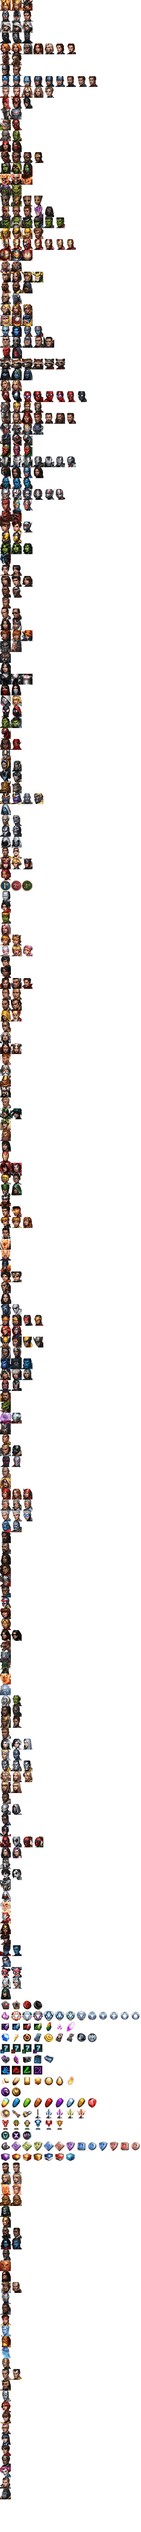
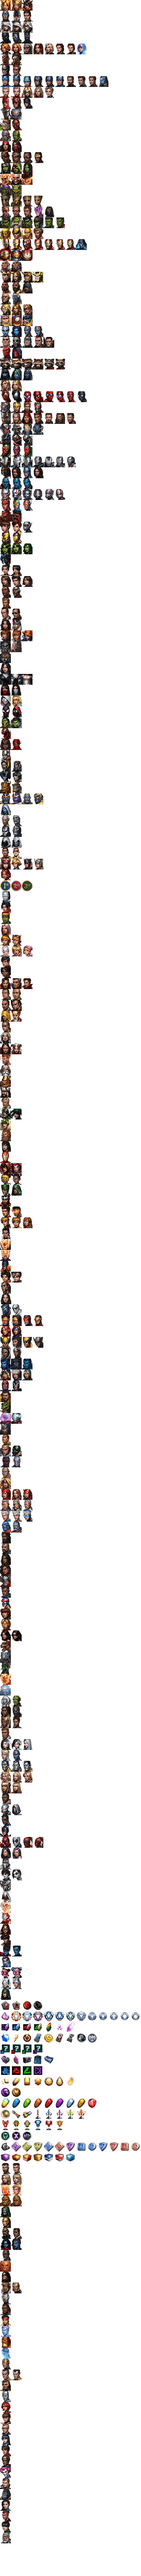
v570

diff --git a/j_flair.js b/j_flair.js
@@ -52,7 +52,6 @@ flair.names = {
 
 
 
-
 "AbsorbingMan00 character absorbingman" : "Absorbing Man [Modern] #Super Villain# #Villain# #Combat# #Male# #Human# #Strong#",
 "AdamWarlock00 character adam" : "Adam Warlock [Modern] #Super Hero# #Hero# #Blast# #Male# #Creature# #Time Freezing Immunity# #Magic#",
 "Aero00 character aero" : "Aero [Modern] #Super Hero# #Hero# #Speed# #Female# #Human# #Agents of Atlas# #Leadership# #Fast Movement# #Potential#",
@@ -75,8 +74,8 @@ flair.names = {
 "Antman03 uniform ant3" : "Ant-Man [Marvel's Ant-Man and the Wasp] #Super Hero# #Hero# #Speed# #Male# #Human# #MCU# #Agility# #Potential# #Tier3#",
 "Antman04 uniform ant4" : "Ant-Man [Marvel's Avengers: Endgame] #Super Hero# #Hero# #Speed# #Male# #Human# #MCU# #Avengers# #Agility# #Potential# #Tier3#",
 "Antman05 uniform ant5" : "Ant-Man [Team Suit] #Super Hero# #Hero# #Speed# #Male# #Human# #MCU# #Avengers# #Agility# #Potential# #Tier3#",
-"Apocalypse00 character apocalypse" : "Apocalypse [Age of Apocalypse] #Super Villain# #Villain# #Combat# #Male# #Mutant# #Durability# #Fast Movement# #Pure Evil# #Potential# #Tier3# #New#",
-"Apocalypse01 uniform apocalypse1" : "Apocalypse [Messiah Complex] #Super Villain# #Villain# #Combat# #Male# #Mutant# #Durability# #Fast Movement# #Pure Evil# #Potential# #Tier3# #New#",
+"Apocalypse00 character apocalypse" : "Apocalypse [Age of Apocalypse] #Super Villain# #Villain# #Combat# #Male# #Mutant# #Durability# #Fast Movement# #Pure Evil# #Potential# #Tier3#",
+"Apocalypse01 uniform apocalypse1" : "Apocalypse [Messiah Complex] #Super Villain# #Villain# #Combat# #Male# #Mutant# #Durability# #Fast Movement# #Pure Evil# #Potential# #Tier3#",
 "Arachknight00 character arachknight" : "Arachknight [Infinity Warps] #Super Hero# #Hero# #Speed# #Male# #Human# #Leadership# #Weapon Master# #Spider-Sense# #Potential#",
 "BaronMordo00 character mordo" : "Baron Mordo [Classic] #Super Villain# #Villain# #Blast# #Male# #Human# #Pure Evil# #Magic#",
 "BaronMordo01 uniform mordo1" : "Mordo [Marvel's Doctor Strange] #Super Villain# #Villain# #Speed# #Male# #Human# #MCU# #Heightened Senses# #Agility#",
@@ -102,14 +101,16 @@ flair.names = {
 "BlackWidow04 uniform widow4" : "Black Widow [Marvel's Avengers: Infinity War] #Super Hero# #Hero# #Speed# #Female# #Human# #MCU# #Avengers# #Agent# #Agility# #Potential#",
 "BlackWidow05 uniform widow5" : "Black Widow [Marvel's Avengers: Endgame] #Super Hero# #Hero# #Speed# #Female# #Human# #MCU# #Avengers# #Agent# #Agility# #Potential#",
 "BlackWidow06 uniform widow6" : "Black Widow [Team Suit] #Super Hero# #Hero# #Speed# #Female# #Human# #MCU# #Avengers# #Agent# #Agility# #Potential#",
+"BlackWidow07 uniform widow7" : "Black Widow [Avengers 3099] #Super Hero# #Hero# #Speed# #Female# #Human# #MCU# #Avengers# #Agent# #Agility# #Potential# #New#",
 "Blade00 character blade" : "Blade [Modern] #Super Hero# #Hero# #Combat# #Male# #Human# #Weapon Master# #Healing#",
 "Blade01 uniform blade1" : "Blade [70's Classic] #Super Hero# #Hero# #Combat# #Male# #Human# #Weapon Master# #Healing#",
+"BlueDragon00 character bluedragon" : "Blue Dragon [] #Super Hero# #Hero# #Blast# #Female# #Human# #Warriors of the Sky# #Leadership# #Electrokinetic# #Potential# #New#",
 "BlueMarvel00 character bluemarvel" : "Blue Marvel [Ultimates] #Super Hero# #Hero# #Universal# #Male# #Human# #Energy Projection# #Leadership#",
 "Bullseye00 character bullseye" : "Bullseye [Modern] #Super Villain# #Villain# #Combat# #Male# #Human# #Pure Evil# #Weapon Master#",
 "Bullseye01 uniform bullseye1" : "Bullseye [Secret Wars: 1872] #Super Villain# #Villain# #Combat# #Male# #Human# #Pure Evil# #Weapon Master#",
 "Cable00 character cable" : "Cable [Modern] #Super Hero# #Hero# #Blast# #Male# #Mutant# #Leadership# #Weapon Master# #Potential#",
 "Cable01 uniform cable1" : "Cable [X-Force] #Super Hero# #Hero# #Blast# #Male# #Mutant# #X-Force# #Leadership# #Weapon Master# #Potential#",
-"Cable02 uniform cable2" : "Cable [Cable & Deadpool] #Super Hero# #Hero# #Blast# #Male# #Mutant# #X-Force# #Leadership# #Weapon Master# #Potential# #New#",
+"Cable02 uniform cable2" : "Cable [Cable & Deadpool] #Super Hero# #Hero# #Blast# #Male# #Mutant# #X-Force# #Leadership# #Weapon Master# #Potential#",
 "CaptainAmerica00 character cap" : "Captain America [The Avengers] #Super Hero# #Hero# #Combat# #Male# #Human# #MCU# #Avengers# #Command# #Leadership# #Potential# #Tier3#",
 "CaptainAmerica01 uniform cap1" : "Captain America [Avengers: Age of Ultron] #Super Hero# #Hero# #Combat# #Male# #Human# #MCU# #Avengers# #Command# #Leadership# #Potential# #Tier3#",
 "CaptainAmerica02 uniform cap2" : "Captain America [Secret Wars: 2099] #Super Hero# #Hero# #Combat# #Female# #Human# #Command# #Leadership# #Potential# #Tier3#",
@@ -119,9 +120,11 @@ flair.names = {
 "CaptainAmerica06 uniform cap6" : "Captain America [Marvel's Avengers: Infinity War] #Super Hero# #Hero# #Combat# #Male# #Human# #MCU# #Avengers# #Command# #Leadership# #Potential# #Tier3#",
 "CaptainAmerica07 uniform cap7" : "Captain America [Marvel's Avengers: Endgame] #Super Hero# #Hero# #Combat# #Male# #Human# #MCU# #Avengers# #Command# #Leadership# #Potential# #Tier3#",
 "CaptainAmerica08 uniform cap8" : "Captain America [Team Suit] #Super Hero# #Hero# #Combat# #Male# #Human# #MCU# #Avengers# #Command# #Leadership# #Potential# #Tier3#",
+"CaptainAmerica09 uniform cap9" : "Captain America [Avengers 3099] #Super Hero# #Hero# #Combat# #Male# #Human# #MCU# #Avengers# #Command# #Leadership# #Potential# #Tier3# #New#",
 "CaptainAmericaSharonRogers00 character sharonrogers" : "Captain America (Sharon Rogers) [Captain America 75th Anniversary] #Super Hero# #Hero# #Blast# #Female# #Human# #Original# #Energy Projection# #Leadership# #Potential# #Tier3#",
 "CaptainAmericaSharonRogers01 uniform sharonrogers1" : "Captain America (Sharon Rogers) [Starlight Armor] #Super Hero# #Hero# #Blast# #Female# #Human# #Original# #Energy Projection# #Leadership# #Potential# #Tier3#",
 "CaptainAmericaSharonRogers02 uniform sharonrogers2" : "Captain America (Sharon Rogers) [Dark Star Armor] #Super Hero# #Hero# #Blast# #Female# #Human# #Original# #Energy Projection# #Leadership# #Potential# #Tier3#",
+"CaptainAmericaSharonRogers03 uniform sharonrogers3" : "Captain America (Sharon Rogers) [Star Night Armor] #Super Hero# #Hero# #Blast# #Female# #Human# #Original# #Energy Projection# #Leadership# #Potential# #Tier3# #New#",
 "CaptainMarvel00 character danvers" : "Captain Marvel [Modern] #Super Hero# #Hero# #Universal# #Female# #Human# #Energy Projection# #Fast Movement# #Leadership#",
 "CaptainMarvel01 uniform danvers1" : "Captain Marvel [Secret Wars: Captain Marvel & The Carol Corps] #Super Hero# #Hero# #Universal# #Female# #Human# #Energy Projection# #Fast Movement# #Leadership#",
 "CaptainMarvel02 uniform danvers2" : "Captain Marvel [Ms. Marvel] #Super Hero# #Hero# #Universal# #Female# #Human# #Energy Projection# #Fast Movement# #Leadership#",
@@ -153,8 +156,8 @@ flair.names = {
 "Daredevil02 uniform devil2" : "Daredevil [All-New, All-Different] #Super Hero# #Hero# #Speed# #Male# #Human# #Defenders# #Leadership# #Heightened Senses# #Agility#",
 "Deadpool00 character deadpool" : "Deadpool [Modern] #Super Hero# #Hero# #Speed# #Male# #Mutant# #Healing# #Weapon Master# #Potential# #Tier3#",
 "Deadpool01 uniform deadpool1" : "Deadpool [X-Force] #Super Hero# #Hero# #Speed# #Male# #Mutant# #X-Force# #Healing# #Weapon Master# #Potential# #Tier3#",
-"Deadpool02 uniform deadpool2" : "Deadpool [Lady Deadpool] #Super Hero# #Hero# #Speed# #Female# #Mutant# #X-Force# #Healing# #Weapon Master# #Potential# #Tier3# #New#",
-"Deadpool03 uniform deadpool3" : "Lady Deadpool [Holiday Party] #Super Hero# #Hero# #Speed# #Female# #Mutant# #X-Force# #Healing# #Weapon Master# #Potential# #Tier3# #New#",
+"Deadpool02 uniform deadpool2" : "Deadpool [Lady Deadpool] #Super Hero# #Hero# #Speed# #Female# #Mutant# #X-Force# #Healing# #Weapon Master# #Potential# #Tier3#",
+"Deadpool03 uniform deadpool3" : "Lady Deadpool [Holiday Party] #Super Hero# #Hero# #Speed# #Female# #Mutant# #X-Force# #Healing# #Weapon Master# #Potential# #Tier3#",
 "Deathlok00 character deathlok" : "Deathlok [Marvel's Agents of S.H.I.E.L.D.] #Super Hero# #Hero# #Combat# #Male# #Human# #MCU# #Shield# #Agent# #Machine#",
 "Deathlok01 uniform deathlok1" : "Deathlok [Modern] #Super Hero# #Hero# #Blast# #Male# #Human# #Shield# #Agent# #Machine#",
 "Destroyer00 character destroyer" : "Destroyer [Classic] #Neutral# #Universal# #Genderless# #Creature# #Asgard# #Flame#",
@@ -167,7 +170,7 @@ flair.names = {
 "DoctorStrange02 uniform strange2" : "Doctor Strange [Marvel's Avengers: Infinity War] #Super Hero# #Hero# #Blast# #Male# #Human# #MCU# #Avengers# #Fast Movement# #Magic# #Potential# #Tier3#",
 "DoctorVoodoo00 character voodoo" : "Doctor Voodoo [Modern] #Super Hero# #Hero# #Universal# #Male# #Human# #Magic# #Command# #Potential#",
 "Domino00 character domino" : "Domino [X-Force] #Super Hero# #Hero# #Speed# #Female# #Mutant# #X-Force# #Weapon Master# #Agility# #Potential#",
-"Domino01 uniform domino1" : "Domino [Marvel NOW!] #Super Hero# #Hero# #Speed# #Female# #Mutant# #X-Force# #-#  #Mercs For Money# #Weapon Master# #Agility# #Potential# #New#",
+"Domino01 uniform domino1" : "Domino [Marvel NOW!] #Super Hero# #Hero# #Speed# #Female# #Mutant# #X-Force# #-#  #Mercs For Money# #Weapon Master# #Agility# #Potential#",
 "Dormammu00 character dormammu" : "Dormammu [Classic] #Super Villain# #Villain# #Universal# #Male# #Alien# #Pure Evil# #Magic#",
 "Drax00 character drax" : "Drax [Guardians of the Galaxy] #Super Hero# #Hero# #Combat# #Male# #Alien# #MCU# #Guardians# #Healing# #Potential#",
 "Drax01 uniform drax1" : "Drax [All-New, All-Different] #Super Hero# #Hero# #Combat# #Male# #Alien# #Guardians# #Healing# #Potential#",
@@ -207,7 +210,7 @@ flair.names = {
 "GiantMan02 uniform giant2" : "Giant-Man [Ultron Pym] #Super Villain# #Villain# #Universal# #Male# #Human# #Strong# #Potential#",
 "Goliath00 character goliath" : "Goliath [Classic] #Super Hero# #Hero# #Combat# #Male# #Human# #Durability# #Strong#",
 "Gorgon00 character gorgon" : "Gorgon [War of Kings] #Super Hero# #Hero#  #Combat# #Male# #Inhuman# #Strong#",
-"GorillaMan00 character gorilla" : "Gorilla-Man [Modern] #Super Hero# #Hero#  #Combat# #Male# #Human# #Mercs For Money# #Strong# #Agility# #Weapon Master# #Potential# #New#",
+"GorillaMan00 character gorilla" : "Gorilla-Man [Modern] #Super Hero# #Hero#  #Combat# #Male# #Human# #Mercs For Money# #Strong# #Agility# #Weapon Master# #Potential#",
 "GreenGoblin00 character goblin" : "Green Goblin [Classic] #Super Villain# #Villain# #Speed# #Male# #Human# #Fast Movement# #Poison#",
 "GreenGoblin01 uniform goblin1" : "Green Goblin [Ultimate] #Super Villain# #Villain# #Combat# #Male# #Human# #Fast Movement# #Flame#",
 "Groot00 character groot" : "Groot [Guardians of the Galaxy] #Super Hero# #Hero# #Combat# #Male# #Alien# #MCU# #Guardians# #Healing# #Support# #Potential#",
@@ -264,6 +267,7 @@ flair.names = {
 "IronMan04 uniform im4" : "Iron Man [Marvel's Avengers: Infinity War] #Super Hero# #Hero# #Blast# #Male# #Human# #MCU# #Avengers# #Energy Projection# #Machine# #Potential# #Tier3#",
 "IronMan05 uniform im5" : "Iron Man [Marvel's Avengers: Endgame] #Super Hero# #Hero# #Blast# #Male# #Human# #MCU# #Avengers# #Energy Projection# #Machine# #Potential# #Tier3#",
 "IronMan06 uniform im6" : "Iron Man [Team Suit] #Super Hero# #Hero# #Blast# #Male# #Human# #MCU# #Avengers# #Energy Projection# #Machine# #Potential# #Tier3#",
+"IronMan07 uniform im7" : "Iron Man [Avengers 3099] #Super Hero# #Hero# #Blast# #Male# #Human# #MCU# #Avengers# #Energy Projection# #Machine# #Potential# #Tier3# #New#",
 "JeanGrey00 character jean" : "Jean Grey [Phoenix] #Super Hero# #Hero# #Blast# #Female# #Mutant# #X-Men# #Phoenix Force# #Mind# #Mind Resist# #Potential# #Tier3#",
 "JeanGrey01 uniform jean1" : "Jean Grey [X-Men Red] #Super Hero# #Hero# #Blast# #Female# #Mutant# #X-Men# #Phoenix Force# #Mind# #Mind Resist# #Potential# #Tier3#",
 "JessicaJones00 character jessica" : "Jessica Jones [Modern] #Super Hero# #Hero# #Combat# #Female# #Human# #MCU# #Defenders# #Durability# #Strong#",
@@ -336,7 +340,7 @@ flair.names = {
 "Nebula01 uniform nebula1" : "Nebula [Classic] #Super Villain# #Villain# #Combat# #Female# #Alien# #Weapon Master# #Shock# #Potential#",
 "Nebula02 uniform nebula2" : "Nebula [Marvel's Avengers: Endgame] #Super Hero# #Hero# #Combat# #Female# #Alien# #Avengers# #-# #Guardians# #Weapon Master# #Shock# #Potential#",
 "Nebula03 uniform nebula3" : "Nebula [Team Suit] #Super Hero# #Hero# #Combat# #Female# #Alien# #Avengers# #-# #Guardians# #Weapon Master# #Shock# #Potential#",
-"NegasonicTeenageWarhead00 character negasonic" : "Negasonic Teenage Warhead [Modern] #Super Hero# #Hero# #Blast# #Female# #Mutant# #Mercs For Money# #Agility# #Fast Movement# #Energy Projection# #Potential# #New#",
+"NegasonicTeenageWarhead00 character negasonic" : "Negasonic Teenage Warhead [Modern] #Super Hero# #Hero# #Blast# #Female# #Mutant# #Mercs For Money# #Agility# #Fast Movement# #Energy Projection# #Potential#",
 "NickFury00 character fury" : "Nick Fury [Modern] #Super Hero# #Hero# #Speed# #Male# #Human# #Shield# #Weapon Master# #Leadership# #Agent# #Support#",
 "NickFury01 uniform fury1" : "Nick Fury [Captain America] #Super Hero# #Hero# #Speed# #Male# #Human# #MCU# #Shield# #Weapon Master# #Leadership# #Agent# #Support# #Potential#",
 "Nightcrawler00 character nightcrawler" : "Nightcrawler [Modern] #Super Hero# #Hero# #Speed# #Male# #Mutant# #X-Men# #Leadership# #Agility# #Potential#",
@@ -386,6 +390,7 @@ flair.names = {
 "ScarletWitch01 uniform scarletwitch1" : "Scarlet Witch [Marvel's Avengers: Infinity War] #Super Hero# #Hero# #Blast# #Female# #Other# #MCU# #Avengers# #Fast Movement# #Chaos Magic# #Potential#",
 "ScarletWitch02 uniform scarletwitch2" : "Scarlet Witch [Uncanny Avengers] #Super Hero# #Hero# #Blast# #Female# #Other# #Avengers# #Fast Movement# #Chaos Magic# #Potential#",
 "Sentinel00 character sentinel" : "Sentinel [Modern] #Super Villain# #Villain# #Universal# #Neutral# #Creature# #Pure Evil# #Machine# #Potential#",
+"ShadowShell00 character shadowshell" : "Shadow Shell [] #Super Hero# #Hero# #Universal# #Female# #Human# #Warriors of the Sky# #Agility# #Poison# #Potential# #New#",
 "ShangChi00 character shang" : "Shang Chi [Modern] #Super Hero# #Hero# #Combat# #Male# #Human# #Agents of Atlas# #Leadership# #Agility# #Potential#",
 "SheHulk00 character shulk" : "She-Hulk [Secret Wars: A-Force] #Super Hero# #Hero# #Combat# #Female# #Human# #Durability# #Strong# #Potential#",
 "SheHulk01 uniform shulk1" : "She-Hulk [All-New] #Super Hero# #Hero# #Combat# #Female# #Human# #Durability# #Strong# #Potential#",
@@ -397,7 +402,7 @@ flair.names = {
 "Silk00 character silk" : "Silk [All-New, All-Different] #Super Hero# #Hero# #Speed# #Female# #Human# #Spidey# #-#  #Agents of Atlas# #Agility# #Spider-Sense# #Potential#",
 "Silk01 uniform silk1" : "Silk [Web Suit] #Super Hero# #Hero# #Speed# #Female# #Human# #Spidey# #Agility# #Spider-Sense# #Potential#",
 "SilverSurfer00 character surfer" : "Silver Surfer [Modern] #Super Hero# #Hero# #Universal# #Male# #Alien# #Power Cosmic# #Potential#",
-"Slapstick00 character slap" : "Slapstick [Modern] #Super Hero# #Hero# #Universal# #Male# #Human# #Mercs For Money# #Agility# #Potential# #New#",
+"Slapstick00 character slap" : "Slapstick [Modern] #Super Hero# #Hero# #Universal# #Male# #Human# #Mercs For Money# #Agility# #Potential#",
 "Sin00 character sin" : "Sin [All-New, All-Different] #Super Villain# #Villain# #Speed# #Female# #Human# #Pure Evil# #Weapon Master# #Support#",
 "Singularity00 character singularity" : "Singularity [Secret Wars: A-Force] #Super Hero# #Hero# #Universal# #Female# #Alien# #Energy Projection# #Fast Movement#",
 "SisterGrimm00 character grimm" : "Sister Grimm [Secret Wars: A-Force] #Super Hero# #Hero# #Blast# #Female# #Human# #Magic#",
@@ -427,6 +432,7 @@ flair.names = {
 "Storm00 character storm" : "Storm [Modern] #Super Hero# #Hero# #Blast# #Female# #Mutant# #X-Men# #Command# #Shock# #Support# #Potential#",
 "Storm01 uniform storm1" : "Storm [X-Men Red] #Super Hero# #Hero# #Blast# #Female# #Mutant# #X-Men# #Command# #Shock# #Support# #Potential#",
 "Stryfe00 character stryfe" : "Stryfe [Modern] #Super Villain# #Villain# #Blast# #Male# #Mutant# #Energy Projection# #Pure Evil# #Potential#",
+"SunBird00 character sunbird" : "Sun Bird [] #Super Hero# #Hero# #Speed# #Male# #Human# #Warriors of the Sky# #Agility# #Flame# #Potential# #New#",
 "Supergiant00 character supergiant" : "Supergiant [Infinity] #Super Villain# #Villain# #Universal# #Female# #Alien# #Black Order# #Mind Resist# #Mind#",
 "Surtur00 character surtur" : "Surtur [Surtur] #Super Villain# #Villain# #Male# #Alien# #Asgard# #NPC#",
 "SwordMaster00 character swordmaster" : "Sword Master [Modern] #Super Hero# #Hero# #Combat# #Male# #Human# #Agents of Atlas# #Leadership# #Weapon Master# #Potential#",
@@ -470,6 +476,7 @@ flair.names = {
 "WarMachine04 uniform wm4" : "War Machine [Marvel's Avengers: Infinity War] #Super Hero# #Hero# #Blast# #Male# #Human# #MCU# #Avengers# #Leadership# #Machine# #Potential#",
 "WarMachine05 uniform wm5" : "War Machine [Marvel's Avengers: Endgame] #Super Hero# #Hero# #Blast# #Male# #Human# #MCU# #Avengers# #Leadership# #Machine# #Potential#",
 "WarMachine06 uniform wm6" : "War Machine [Team Suit] #Super Hero# #Hero# #Blast# #Male# #Human# #MCU# #Avengers# #Leadership# #Machine# #Potential#",
+"WarTiger00 character wartiger" : "War Tiger [] #Super Hero# #Hero# #Combat# #Male# #Human# #Warriors of the Sky# #Strong# #Durability# #Potential# #New#",
 "Warpath00 character warpath" : "Warpath [X-Force] #Super Hero# #Hero# #Combat# #Male# #Mutant# #X-Force# #Leadership# #Strong# #Potential#",
 "Warwolf00 character warwolf" : "Warwolf [The Howling Commandos of S.H.I.E.L.D.] #Super Hero# #Hero# #Combat# #Male# #Human# #Shield# #Agent# #Healing# #Support#",
 "Wasp00 character wasp" : "Wasp [Modern] #Super Hero# #Hero# #Blast# #Female# #Human# #Fast Movement# #Support# #Potential#",
@@ -501,8 +508,6 @@ flair.names = {
 "Yondu00 character yondu" : "Yondu [Guardians of the Galaxy] #Super Hero# #Hero# #Speed# #Male# #Alien# #MCU# #Guardians# #Weapon Master# #Command#",
 "Yondu01 uniform yondu1" : "Yondu [All-New, All-Different] #Super Hero# #Hero# #Speed# #Male# #Alien# #Weapon Master# #Command#",
 "Yondu02 uniform yondu2" : "Yondu [Guardians of the Galaxy 2] #Super Hero# #Hero# #Speed# #Male# #Alien# #MCU# #Guardians# #Weapon Master# #Command#",
-
-
 
 
 

diff --git a/j_scripts.js b/j_scripts.js
@@ -175,7 +175,7 @@ flair.selectChoice = function (hero_id, key) {
 	
 	flair.by_id[hero_id].hero_attributeop = flair.by_id[hero_id].hero_name.replace(/.*?(\#[^)]*\#).*?/g, "$1");
 	
-	flair.by_id[hero_id].hero_abilities1 = flair.by_id[hero_id].hero_attributeop.replace(/.*?(\#(Agent|Agility|Chaos Magic|Chill|Cold Blooded|Command|Durability|Energy Projection|Fantastic Four|Fast Movement|Flame|Healing|Heightened Senses|Leadership|Machine|Magic|Mind|Mind Resist|Phoenix Force|Poison|Power Cosmic|Pure Evil|Shock|Spider-Sense|Strong|Symbiote|Time Freezing Immunity|Weapon Master)*\#).*?/gi, "$1").replace(/#Agent#/g, " Agent,").replace(/#Agility#/g, " Agility,").replace(/#Chaos Magic#/g, " Chaos Magic,").replace(/#Chill#/g, " Chill,").replace(/#Cold Blooded#/g, " Cold Blooded,").replace(/#Command#/g, " Command,").replace(/#Durability#/g, " Durability,").replace(/#Energy Projection#/g, " Energy Projection,").replace(/#Fantastic Four#/g, " Fantastic Four,").replace(/#Fast Movement#/g, " Fast Movement,").replace(/#Flame#/g, " Flame,").replace(/#Healing#/g, " Healing,").replace(/#Heightened Senses#/g, " Heightened Senses,").replace(/#Leadership#/g, " Leadership,").replace(/#Machine#/g, " Machine,").replace(/#Magic#/g, " Magic,").replace(/#Mind#/g, " Mind,").replace(/#Mind Resist#/g, " Mind Resist,").replace(/#Phoenix Force#/g, " Phoenix Force,").replace(/#Poison#/g, " Poison,").replace(/#Power Cosmic#/g, " Power Cosmic,").replace(/#Pure Evil#/g, " Pure Evil,").replace(/#Shock#/g, " Shock,").replace(/#Spider-Sense#/g, " Spider-Sense,").replace(/#Strong#/g, " Strong,").replace(/#Symbiote#/g, " Symbiote,").replace(/#Time Freezing Immunity#/g, " Time Freezing Immunity,").replace(/#Weapon Master#/g, " Weapon Master,");
+	flair.by_id[hero_id].hero_abilities1 = flair.by_id[hero_id].hero_attributeop.replace(/.*?(\#(Agent|Agility|Chaos Magic|Chill|Cold Blooded|Command|Durability|Electrokinetic|Energy Projection|Fantastic Four|Fast Movement|Flame|Healing|Heightened Senses|Leadership|Machine|Magic|Mind|Mind Resist|Phoenix Force|Poison|Power Cosmic|Pure Evil|Shock|Spider-Sense|Strong|Symbiote|Time Freezing Immunity|Weapon Master)*\#).*?/gi, "$1").replace(/#Agent#/g, " Agent,").replace(/#Agility#/g, " Agility,").replace(/#Chaos Magic#/g, " Chaos Magic,").replace(/#Chill#/g, " Chill,").replace(/#Cold Blooded#/g, " Cold Blooded,").replace(/#Command#/g, " Command,").replace(/#Durability#/g, " Durability,").replace(/#Electrokinetic#/g, " Electrokinetic,").replace(/#Energy Projection#/g, " Energy Projection,").replace(/#Fantastic Four#/g, " Fantastic Four,").replace(/#Fast Movement#/g, " Fast Movement,").replace(/#Flame#/g, " Flame,").replace(/#Healing#/g, " Healing,").replace(/#Heightened Senses#/g, " Heightened Senses,").replace(/#Leadership#/g, " Leadership,").replace(/#Machine#/g, " Machine,").replace(/#Magic#/g, " Magic,").replace(/#Mind#/g, " Mind,").replace(/#Mind Resist#/g, " Mind Resist,").replace(/#Phoenix Force#/g, " Phoenix Force,").replace(/#Poison#/g, " Poison,").replace(/#Power Cosmic#/g, " Power Cosmic,").replace(/#Pure Evil#/g, " Pure Evil,").replace(/#Shock#/g, " Shock,").replace(/#Spider-Sense#/g, " Spider-Sense,").replace(/#Strong#/g, " Strong,").replace(/#Symbiote#/g, " Symbiote,").replace(/#Time Freezing Immunity#/g, " Time Freezing Immunity,").replace(/#Weapon Master#/g, " Weapon Master,");
 	flair.by_id[hero_id].hero_abilities2 = flair.by_id[hero_id].hero_abilities1.replace(/ *\#[^)]*\# */g, "");
 	flair.by_id[hero_id].hero_abilities = flair.by_id[hero_id].hero_abilities2.slice(0, -1);
 	document.getElementById('flair-selection-abilities').innerHTML = flair.by_id[hero_id].hero_abilities;
@@ -192,7 +192,7 @@ flair.selectChoice = function (hero_id, key) {
 	flair.by_id[hero_id].hero_side = flair.by_id[hero_id].hero_side1.replace(/ *\#[^)]*\# */g, "");
 	document.getElementById('flair-selection-side').innerHTML = flair.by_id[hero_id].hero_side;
 	
-	flair.by_id[hero_id].hero_team1 = flair.by_id[hero_id].hero_attributeop.replace(/.*?(\#(Agents of Atlas|Avengers|Asgard|Black Order|Brotherhood|Defenders|Fantastic Four|Guardians|Mercs For Money|Original|Phoenix Five|Shield|Sinister Six|Skrull|Spidey|X-Men|X-Force|-)*\#).*?/gi, "$1").replace(/#Agents of Atlas#/g, " Agents of Atlas").replace(/#Avengers#/g, " Avengers").replace(/#Asgard#/g, " Asgard").replace(/#Black Order#/g, " Black Order").replace(/#Brotherhood#/g, " Brotherhood").replace(/#Defenders#/g, " Defenders").replace(/#Fantastic Four#/g, " Fantastic Four").replace(/#Guardians#/g, " Guardians").replace(/#Mercs For Money#/g, " Mercs For Money").replace(/#Original#/g, " Original").replace(/#Phoenix Five#/g, " Phoenix Five").replace(/#Shield#/g, " Shield").replace(/#Sinister Six#/g, " Sinister Six").replace(/#Skrull#/g, " Skrull").replace(/#Spidey#/g, " Spidey").replace(/#X-Men#/g, " X-Men").replace(/#X-Force#/g, " X-Force").replace(/#-#/g, ",");
+	flair.by_id[hero_id].hero_team1 = flair.by_id[hero_id].hero_attributeop.replace(/.*?(\#(Agents of Atlas|Avengers|Asgard|Black Order|Brotherhood|Defenders|Fantastic Four|Guardians|Mercs For Money|Original|Phoenix Five|Shield|Sinister Six|Skrull|Spidey|Warriors of the Sky|X-Men|X-Force|-)*\#).*?/gi, "$1").replace(/#Agents of Atlas#/g, " Agents of Atlas").replace(/#Avengers#/g, " Avengers").replace(/#Asgard#/g, " Asgard").replace(/#Black Order#/g, " Black Order").replace(/#Brotherhood#/g, " Brotherhood").replace(/#Defenders#/g, " Defenders").replace(/#Fantastic Four#/g, " Fantastic Four").replace(/#Guardians#/g, " Guardians").replace(/#Mercs For Money#/g, " Mercs For Money").replace(/#Original#/g, " Original").replace(/#Phoenix Five#/g, " Phoenix Five").replace(/#Shield#/g, " Shield").replace(/#Sinister Six#/g, " Sinister Six").replace(/#Skrull#/g, " Skrull").replace(/#Spidey#/g, " Spidey").replace(/#Warriors of the Sky#/g, " Warriors of the Sky").replace(/#X-Men#/g, " X-Men").replace(/#X-Force#/g, " X-Force").replace(/#-#/g, ",");
 	flair.by_id[hero_id].hero_team = flair.by_id[hero_id].hero_team1.replace(/ *\#[^)]*\# */g, "");
 	document.getElementById('flair-selection-team').innerHTML = flair.by_id[hero_id].hero_team;
 	

diff --git a/c_flair.css b/c_flair.css
@@ -55,6 +55,9 @@ e.flair-angela {
 .flair-widow6 {
 	background-position: -180px -120px
 }
+.flair-widow7 {
+	background-position: -180px -150px
+}
 .flair-blade {
 	background-position: 0 -150px
 }
@@ -93,6 +96,9 @@ e.flair-angela {
 }
 .flair-cap8 {
 	background-position: -240px -210px
+}
+.flair-cap9 {
+	background-position: -270px -210px
 }
 .flair-danvers {
 	background-position: 0 -240px
@@ -255,6 +261,9 @@ e.flair-angela {
 }
 .flair-im6 {
 	background-position: -180px -660px
+}
+.flair-im7 {
+	background-position: -210px -660px
 }
 .flair-hb {
 	background-position: 0 -690px
@@ -729,6 +738,9 @@ e.flair-angela {
 }
 .flair-sharonrogers2 {
 	background-position: -60px -2370px
+}
+.flair-sharonrogers3 {
+	background-position: -90px -2370px
 }
 .flair-sin {
 	background-position: 0 -2400px
@@ -1342,6 +1354,18 @@ e.flair-angela {
 .flair-gorilla{
 	background-position: 0 -6870px
 }
+.flair-bluedragon{
+	background-position: 0 -6900px
+}
+.flair-sunbird{
+	background-position: 0 -6930px
+}
+.flair-shadowshell{
+	background-position: 0 -6960px
+}
+.flair-wartiger{
+	background-position: 0 -69900px
+}
 .comment .flair {left: 67px}
 .link .flair {left: 145px}
 .flair:before {left: 47px}
@@ -1403,6 +1427,7 @@ e.flair-angela {
 .flair1-widow4 {background-position:-1800px -400px}
 .flair1-widow5 {background-position:-1800px -500px}
 .flair1-widow6 {background-position:-1800px -600px}
+.flair1-widow7 {background-position:-1800px -700px}
 .flair1-blade {background-position:-1900px 0px}
 .flair1-blade1 {background-position:-1900px -100px}
 .flair1-bluemarvel {background-position:-2000px 0px}
@@ -1420,6 +1445,7 @@ e.flair-angela {
 .flair1-cap6 {background-position:-2300px -600px}
 .flair1-cap7 {background-position:-2300px -700px}
 .flair1-cap8 {background-position:-2300px -800px}
+.flair1-cap9 {background-position:-2300px -900px}
 .flair1-danvers {background-position:-2400px 0px}
 .flair1-danvers1 {background-position:-2400px -100px}
 .flair1-danvers2 {background-position:-2400px -200px}
@@ -1553,6 +1579,7 @@ e.flair-angela {
 .flair1-im4 {background-position:-8100px -400px}
 .flair1-im5 {background-position:-8100px -500px}
 .flair1-im6 {background-position:-8100px -600px}
+.flair1-im7 {background-position:-8100px -700px}
 .flair1-jane {background-position:-8200px 0px}
 .flair1-jean {background-position:-8300px 0px}
 .flair1-jean1 {background-position:-8300px -100px}
@@ -1672,6 +1699,7 @@ e.flair-angela {
 .flair1-sharonrogers {background-position:-13800px 0px}
 .flair1-sharonrogers1 {background-position:-13800px -100px}
 .flair1-sharonrogers2 {background-position:-13800px -200px}
+.flair1-sharonrogers3 {background-position:-13800px -300px}
 .flair1-shulk {background-position:-13900px 0px}
 .flair1-shulk1 {background-position:-13900px -100px}
 .flair1-shulk2 {background-position:-13900px -200px}
@@ -1805,4 +1833,7 @@ e.flair-angela {
 .flair1-slap {background-position:-20500px 0px}
 .flair1-negasonic {background-position:-20600px 0px}
 .flair1-gorilla {background-position:-20700px 0px}
-
+.flair1-bluedragon {background-position:-20800px 0px}
+.flair1-sunbird {background-position:-20900px 0px}
+.flair1-shadowshell {background-position:-21000px 0px}
+.flair1-wartiger {background-position:-21100px 0px}
